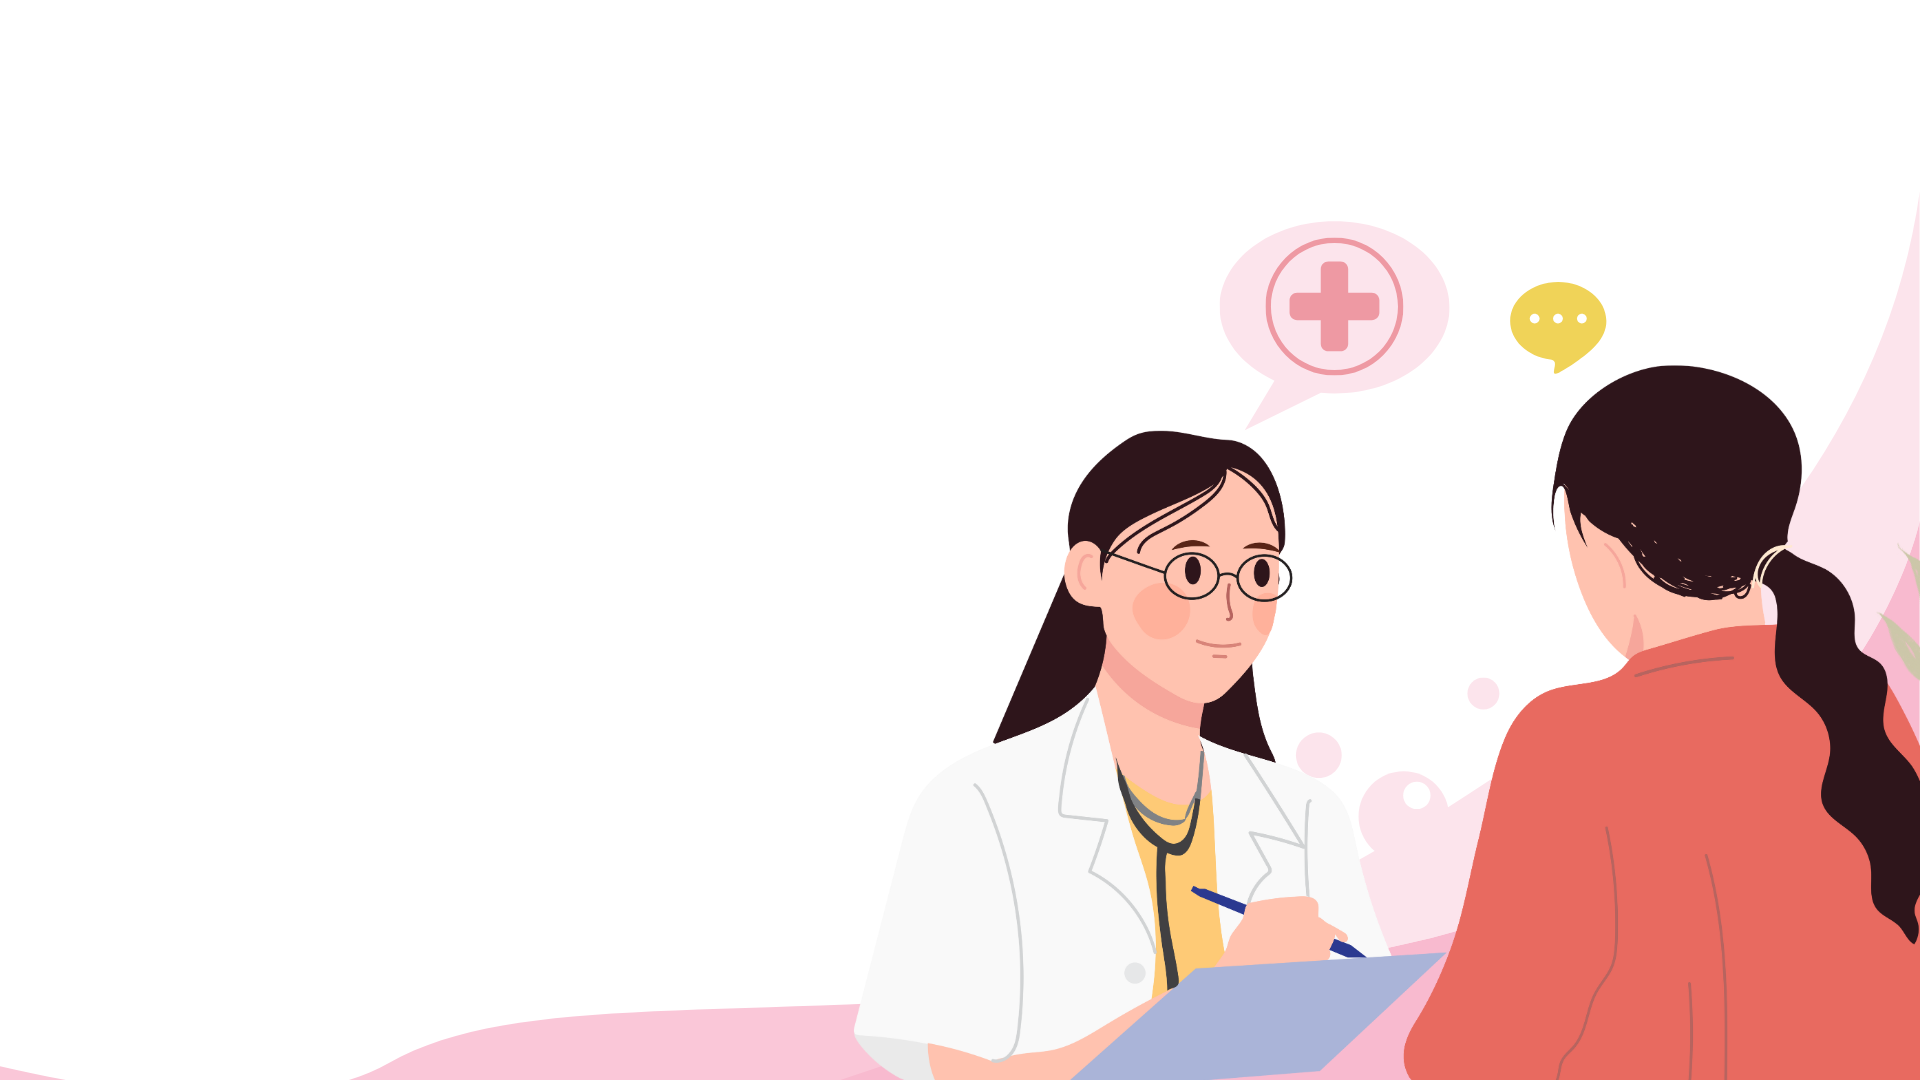
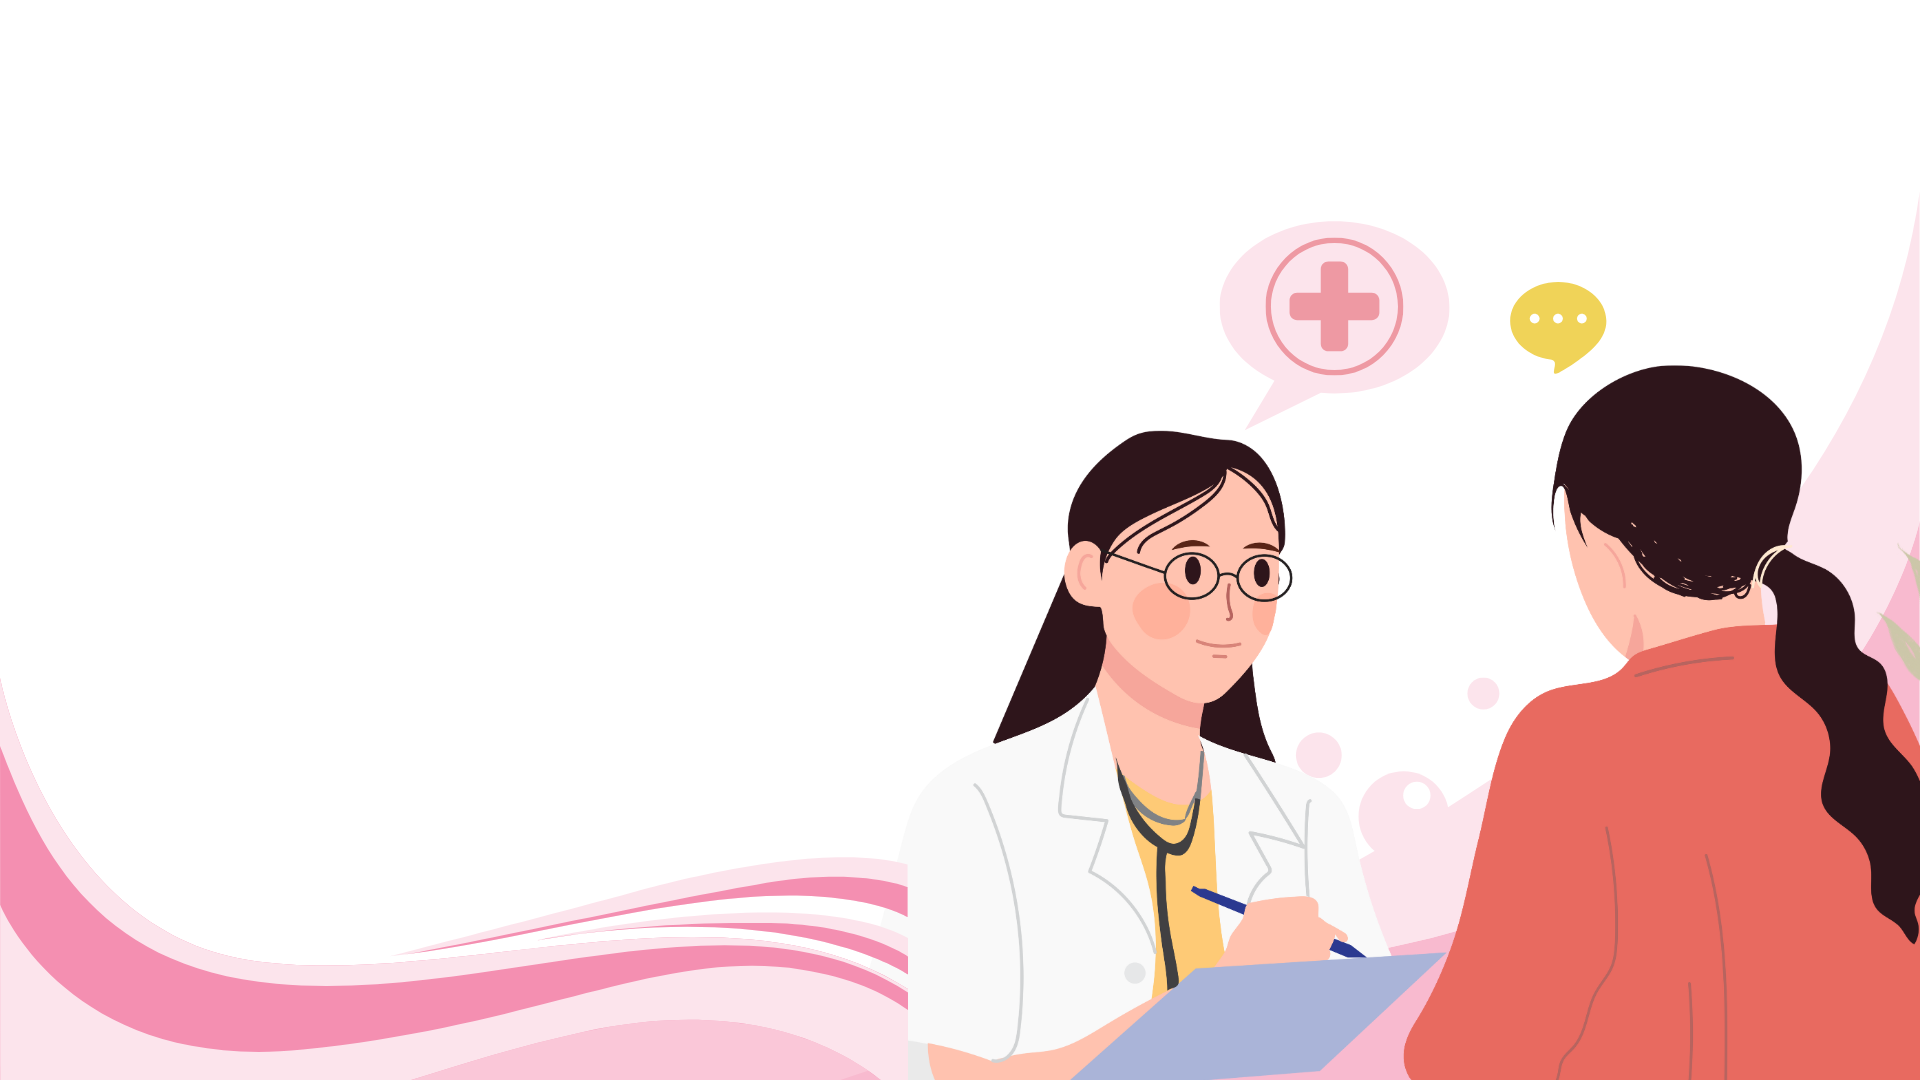
Fixed Background

Changed region(s): [[0.0, 0.6417, 0.4688, 1.0]]

diff --git a/index.html b/index.html
@@ -65,7 +65,7 @@
             <div class="card">
                 <a class="card1" href="#">
                     <p><h1 class="card-heading"> Health Insight</h1></p>
-                    <p style="font-size: medium;" class="small">Health insights in HerHealth offer personalized, actionable recommendations based on menstrual cycle data, empowering women to manage their health proactively. They help prevent health issues by providing specific diet charts and exercises based on the level of their suffering</p>
+                    <p style="font-size: medium;" class="small">Health insights in <strong>HerHealth</strong> offer personalized, actionable recommendations based on menstrual cycle data, empowering women to manage their health proactively. They help prevent health issues by providing specific diet charts and exercises based on the level of their suffering</p>
                     <div class="go-corner" href="#">
                         <div class="go-arrow">
                             

diff --git a/style.css b/style.css
@@ -19,7 +19,7 @@
     min-height: 100vh; /* Changed from height to min-height */
     width: 100%;
     background: linear-gradient(to bottom, transparent 95%, rgba(0, 0, 0, 0.5) 100%);
-    background-image: url('./Untitled design (1).png');
+    background-image: url('./HomeBG.png');
     background-size: cover;
     background-repeat: no-repeat;
     background-position: center;
